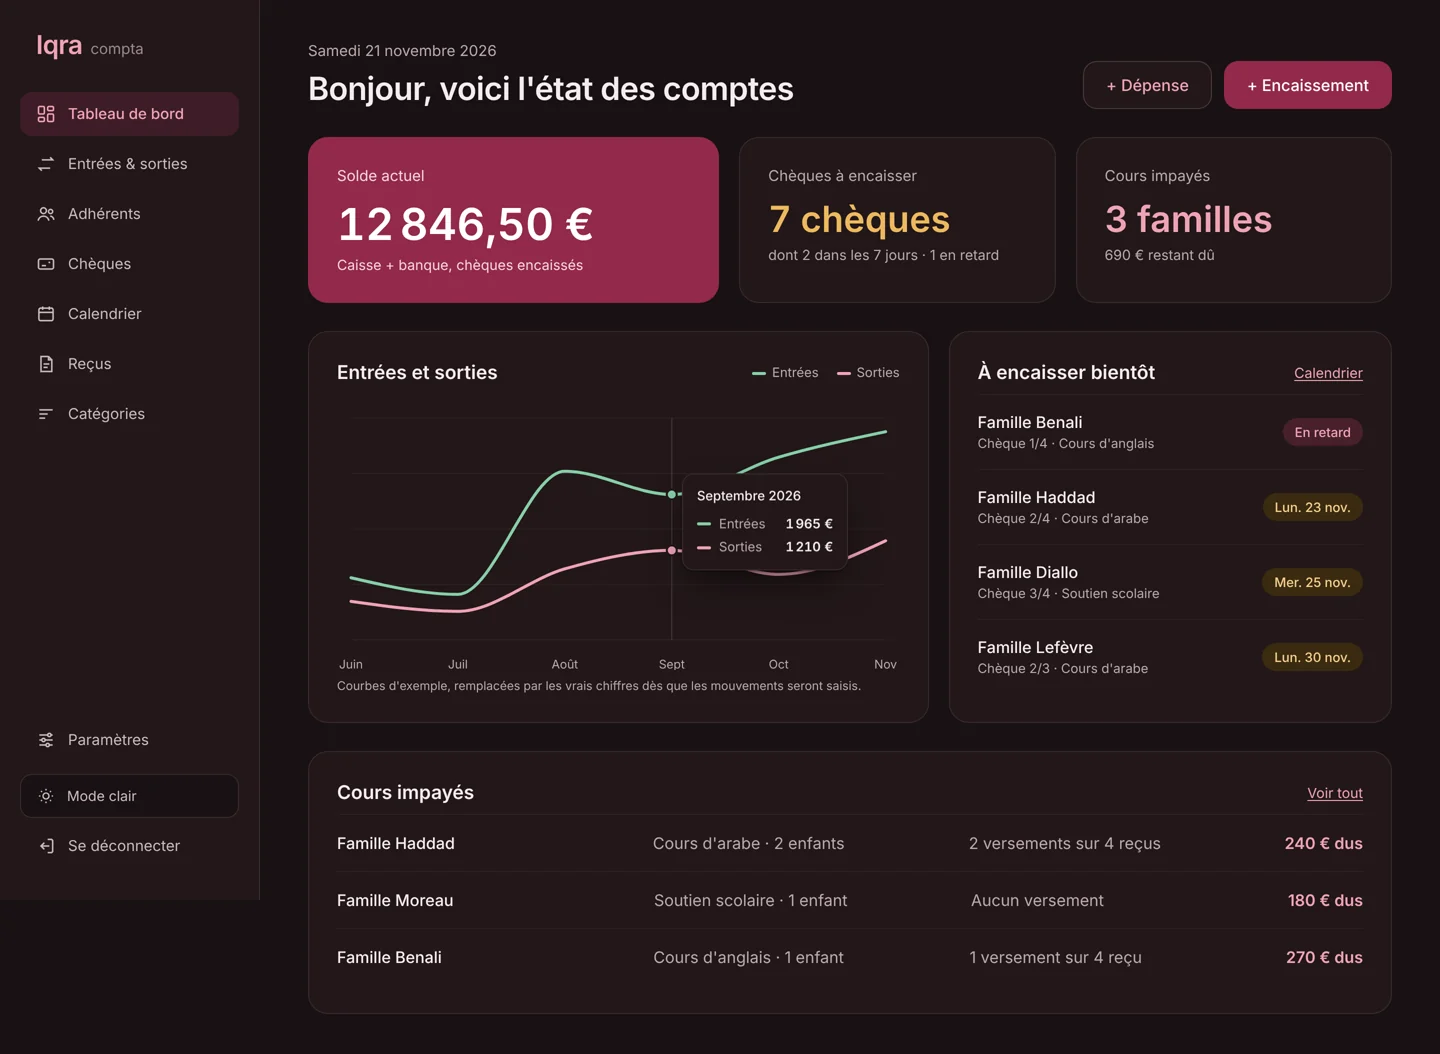
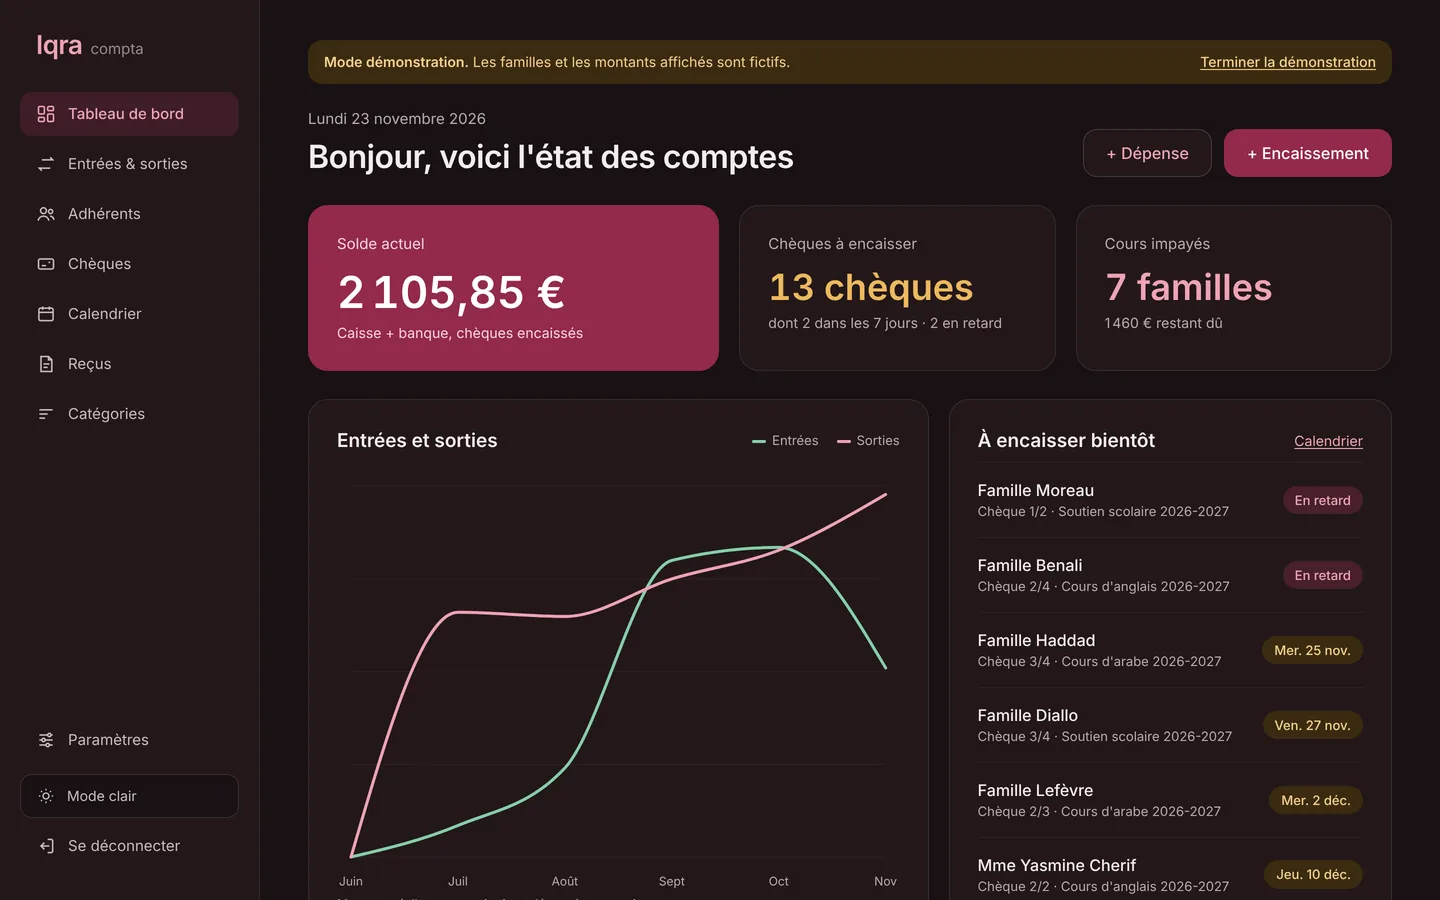
Captures de toutes les pages et tutoriel en mode démonstration
Claude-Session: https://claude.ai/code/session_01MCicbvc4CtMnAmKPHuxbm9

diff --git a/docs/TUTORIEL.md b/docs/TUTORIEL.md
@@ -1,0 +1,120 @@
+# Iqra Compta — tutoriel en mode démonstration
+
+Ce tutoriel fait le tour de l'application avec des **données fictives** (11
+familles inventées). Rien de ce que vous faites pendant la démonstration ne
+compte pour de vrai : tout s'efface en un clic à la fin.
+
+> Durée : 10 minutes environ. Une vidéo de la même visite existe
+> (« iqra-tutoriel-ordinateur.mp4 » et « iqra-tutoriel-telephone.mp4 »).
+
+## 1. Charger la démonstration
+
+1. Connectez-vous, puis ouvrez **Paramètres** (en bas du menu).
+2. Dans la carte **Démonstration**, cliquez sur **« Charger les données de
+   démonstration »** (quelques secondes).
+3. Un bandeau jaune **« Mode démonstration »** apparaît en haut de chaque page :
+   il rappelle que les familles et les montants sont fictifs.
+
+> Le chargement n'est possible que dans une application vide : il ne peut jamais
+> se mélanger à de vraies données.
+
+## 2. Le tableau de bord
+
+![Tableau de bord](captures/tableau-de-bord.webp)
+
+- **Solde actuel** : solde de départ + argent encaissé − dépenses. Un chèque
+  seulement *prévu* n'y entre pas.
+- **Chèques à encaisser** : combien attendent, dont ceux des 7 prochains jours et
+  ceux **en retard**.
+- **Cours impayés** : les familles qui ont encore des versements à faire.
+- La courbe montre les entrées et sorties des 6 derniers mois ; la liste
+  « À encaisser bientôt » commence par les chèques en retard (badge rouge).
+
+## 3. Les adhérents et la fiche famille
+
+![Fiche adhérent](captures/fiche-adherent.webp)
+
+1. Menu **Adhérents** : chaque famille, ce qu'elle a versé cette année et ce
+   qui reste à payer. La recherche trouve un nom, un téléphone ou un email.
+2. Cliquez sur **Famille Haddad**. La fiche montre l'échéancier des chèques :
+   - vert = **encaissé**, ambre encadré = **à encaisser** (dans les 7 jours),
+     gris = **prévu**, rose = **rejeté** ou **en retard**.
+3. Cliquez sur **« Marquer le chèque 3 comme encaissé »**, gardez la date du jour
+   et validez : le montant entre dans le solde et **le reçu est créé**
+   (bouton « Ouvrir le reçu (PDF) »).
+4. Sous chaque chèque : *Modifier* (date, numéro, banque), *Rejeté* (chèque
+   refusé par la banque), *Reçu*.
+
+## 4. Enregistrer un encaissement en 4 fois
+
+![Nouvel encaissement](captures/encaissement.webp)
+
+1. Menu **Entrées & sorties**, bouton **« + Encaissement »**.
+2. Adhérent : tapez « Diallo » et choisissez la famille. Catégorie : *Soutien
+   scolaire*. Montant total : **360**. Moyen : *Chèque*.
+3. **Payer en : 4 fois**. Les 4 échéances (90 € par mois) s'affichent ; vous
+   pouvez changer un montant, une date, ajouter le n° de chèque et la banque.
+   Le total est vérifié en direct.
+4. **« Enregistrer et générer le reçu »** : le 1er versement est encaissé avec
+   son reçu, les 3 autres attendent leur date dans **Chèques** et le
+   **Calendrier**.
+
+Pour une **dépense** : bouton **« + Dépense »** (date, libellé, catégorie,
+montant, moyen de paiement). Une erreur de saisie ? Le petit bouton au bout de
+la ligne **annule** le mouvement : il reste visible, barré, mais sort du solde.
+
+![Entrées et sorties](captures/mouvements.webp)
+
+## 5. Les chèques et le calendrier
+
+![Chèques](captures/cheques.webp)
+
+- **Chèques** : tout ce qui reste à encaisser, trié par date (en retard, cette
+  semaine, plus tard), avec les onglets *Rejetés* et *Encaissés*.
+- Un chèque rejeté se **remet à encaisser** avec la nouvelle date et le chèque de
+  remplacement.
+
+![Calendrier](captures/calendrier.webp)
+
+- **Calendrier** : le mois en un coup d'œil (couleurs = statuts), puis le détail
+  jour par jour avec les mêmes boutons. *Précédent* / *Suivant* changent de mois.
+
+## 6. Les reçus
+
+![Reçus](captures/recus.webp)
+
+- Chaque encaissement a son reçu, numéroté sans trou : `2026-0001`, `2026-0002`…
+- **Ouvrir** affiche le PDF, **Télécharger** l'enregistre.
+- Un reçu ne change plus après son émission. S'il correspond à un mouvement
+  annulé, il porte la mention **ANNULÉ**.
+
+<img src="captures/recu.webp" alt="Reçu PDF" width="420">
+
+## 7. Les paramètres
+
+![Paramètres](captures/parametres.webp)
+
+- **L'association** : nom, adresse, email, téléphone, n° RNA, nom du trésorier
+  ou de la trésorière — repris sur les prochains reçus (aperçu en direct).
+- **Solde de départ** : ce qu'il y avait en banque et en caisse au début.
+- **Rappels de chèques** : l'adresse qui reçoit chaque matin la liste des chèques
+  à déposer (voir « Rappels par email » dans le README).
+- **Reçu fiscal pour les dons** : désactivé, en attente de l'association.
+
+## 8. Terminer la démonstration
+
+Quand vous êtes prête à commencer la vraie comptabilité :
+
+1. **Paramètres → Démonstration → « Terminer la démonstration… »**.
+2. Tapez **EFFACER** puis **« Tout effacer »**.
+
+Tous les adhérents, mouvements, chèques et reçus sont effacés ; les catégories et
+les informations de l'association sont conservées et la numérotation des reçus
+repart à `0001`. Pensez ensuite à renseigner le **solde de départ** réel.
+
+## Sur téléphone
+
+![Téléphone](captures/telephone.webp)
+
+Le menu passe en haut, les tableaux deviennent des listes : tout reste
+utilisable, y compris l'encaissement d'un chèque.

diff --git a/README.md b/README.md
@@ -7,17 +7,27 @@ Le brief d'origine et les maquettes validées sont dans [`docs/design/`](docs/de
 
 ## Aperçu
 
+Visite complète pas à pas : **[tutoriel en mode démonstration](docs/TUTORIEL.md)**.
+
 | Tableau de bord | Mode sombre |
 | --- | --- |
 | ![Tableau de bord en mode clair](docs/captures/tableau-de-bord.webp) | ![Tableau de bord en mode sombre](docs/captures/tableau-de-bord-sombre.webp) |
 
-| Catégories | Ajout d'une catégorie |
+| Fiche adhérent | Encaissement en 4 fois |
 | --- | --- |
-| ![Page des catégories](docs/captures/categories.webp) | ![Fenêtre d'ajout d'une catégorie](docs/captures/categories-fenetre.webp) |
+| ![Fiche d'une famille avec son échéancier](docs/captures/fiche-adherent.webp) | ![Fenêtre « Nouvel encaissement »](docs/captures/encaissement.webp) |
+
+| Chèques | Calendrier |
+| --- | --- |
+| ![Chèques à encaisser](docs/captures/cheques.webp) | ![Calendrier du mois](docs/captures/calendrier.webp) |
+
+| Entrées & sorties | Reçus |
+| --- | --- |
+| ![Tableau des mouvements](docs/captures/mouvements.webp) | ![Liste des reçus](docs/captures/recus.webp) |
 
 Sur téléphone, le menu passe en haut :
 
-![Tableau de bord clair, tableau de bord sombre et catégories sur téléphone](docs/captures/telephone.webp)
+![Tableau de bord, fiche adhérent, chèques et calendrier sur téléphone](docs/captures/telephone.webp)
 
 ## Où en est le projet
 
